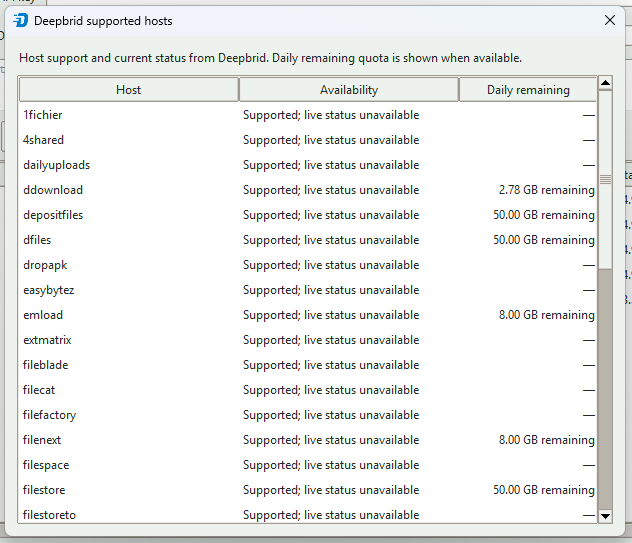
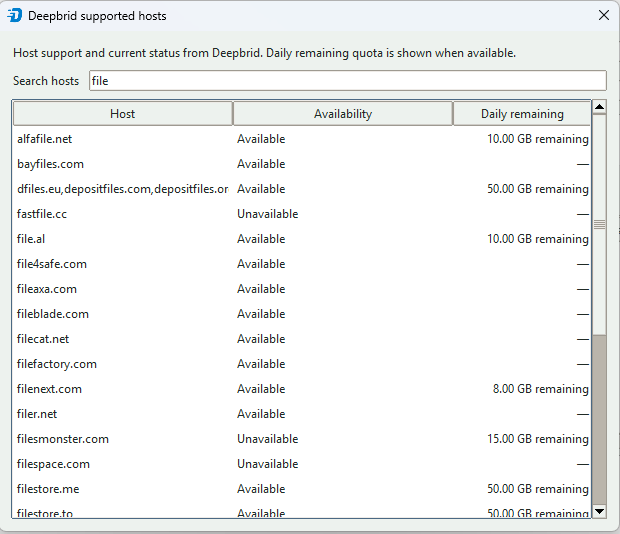
Fix warnings, Filter and sort hosts

Changed region(s): [[0.0, 0.0, 1.0, 1.0]]

diff --git a/src/app.py b/src/app.py
@@ -47,6 +47,18 @@ LINK_PLACEHOLDER = "Paste supported file-host links or HTML containing links her
 API_KEY_DASHBOARD_URL = "https://www.deepbrid.com/devices"
 
 
+def _filter_and_sort_host_rows(
+    rows: list[tuple[str, str, str]],
+    query: str,
+    column: str,
+    reverse: bool,
+) -> list[tuple[str, str, str]]:
+    column_index = {"host": 0, "availability": 1, "limit": 2}[column]
+    normalized_query = query.casefold()
+    matching_rows = (row for row in rows if normalized_query in row[0].casefold())
+    return sorted(matching_rows, key=lambda row: row[column_index].casefold(), reverse=reverse)
+
+
 def default_download_directory() -> Path:
     downloads = Path(user_downloads_dir()).expanduser()
     return downloads if downloads.is_dir() else OUTPUT_DIR
@@ -570,6 +582,12 @@ class DownloaderApp:
             ttk.Label(frame, text=f"Daily limits unavailable: {limits_error}", wraplength=580).pack(
                 anchor="w", pady=(0, 8)
             )
+        search_row = ttk.Frame(frame)
+        search_row.pack(fill="x", pady=(0, 8))
+        ttk.Label(search_row, text="Search hosts").pack(side="left", padx=(0, 8))
+        search_var = tk.StringVar(master=popup)
+        search_entry = ttk.Entry(search_row, textvariable=search_var)
+        search_entry.pack(side="left", fill="x", expand=True)
         table_frame = ttk.Frame(frame)
         table_frame.pack(fill="both", expand=True)
         table_frame.rowconfigure(0, weight=1)
@@ -579,9 +597,33 @@ class DownloaderApp:
             columns=("host", "availability", "limit"),
             show="headings",
         )
-        table.heading("host", text="Host")
-        table.heading("availability", text="Availability")
-        table.heading("limit", text="Daily remaining")
+        sort_state = {"column": "host", "reverse": False}
+
+        def render_rows() -> None:
+            rows = _filter_and_sort_host_rows(
+                host_rows,
+                search_var.get(),
+                sort_state["column"],
+                sort_state["reverse"],
+            )
+            table.delete(*table.get_children())
+            for row in rows:
+                table.insert("", "end", values=row)
+
+        def sort_by(column: str) -> None:
+            if sort_state["column"] == column:
+                sort_state["reverse"] = not sort_state["reverse"]
+            else:
+                sort_state["column"] = column
+                sort_state["reverse"] = False
+            render_rows()
+
+        for column, label in (
+            ("host", "Host"),
+            ("availability", "Availability"),
+            ("limit", "Daily remaining"),
+        ):
+            table.heading(column, text=label, command=lambda key=column: sort_by(key))
         table.column("host", width=220, anchor="w")
         table.column("availability", width=220, anchor="w")
         table.column("limit", width=140, anchor="e")
@@ -590,7 +632,8 @@ class DownloaderApp:
         scrollbar.grid(row=0, column=1, sticky="ns")
         table.configure(yscrollcommand=scrollbar.set)
 
-        for domain, status in sorted(hosts.items(), key=lambda entry: entry[0].casefold()):
+        host_rows = []
+        for domain, status in hosts.items():
             normalized_status = status.strip().split("(", 1)[0].strip().lower()
             if normalized_status == "down":
                 availability = "Unavailable"
@@ -607,7 +650,9 @@ class DownloaderApp:
                     (value for key, value in limits.items() if key.lower().split(".", 1)[0] == host_slug),
                     "—",
                 )
-            table.insert("", "end", values=(domain, availability, limit))
+            host_rows.append((domain, availability, limit))
+        search_var.trace_add("write", lambda *_args: render_rows())
+        render_rows()
         return popup
 
     def _apply_host_statuses(self, hosts: dict[str, str]) -> None:
@@ -701,14 +746,19 @@ class DownloaderApp:
         canvas.configure(yscrollcommand=yscrollbar.set, xscrollcommand=xscrollbar.set)
 
         def _on_mouse_wheel(event: tk.Event) -> None:
+            if not canvas.winfo_exists():
+                return
             if hasattr(event, "delta"):
                 delta = int(-event.delta / 12)
             else:
                 delta = 0
-            canvas.yview_scroll(delta, "units")
+            try:
+                canvas.yview_scroll(delta, "units")
+            except tk.TclError:
+                return
 
-        canvas.bind_all("<MouseWheel>", _on_mouse_wheel)
-        canvas.bind_all("<Shift-MouseWheel>", _on_mouse_wheel)
+        popup.bind("<MouseWheel>", _on_mouse_wheel, add="+")
+        popup.bind("<Shift-MouseWheel>", _on_mouse_wheel, add="+")
         frame = ttk.Frame(canvas)
         canvas.create_window((0, 0), window=frame, anchor="nw")
 

diff --git a/tests/test_downloader.py b/tests/test_downloader.py
@@ -18,6 +18,7 @@ from src.app import (
     OUTPUT_DIR,
     _ConsoleStream,
     default_download_directory,
+    _filter_and_sort_host_rows,
     format_bytes,
     format_duration,
     migrate_legacy_database,
@@ -250,6 +251,26 @@ class QueueStoreTests(unittest.TestCase):
 
 
 class ValidationAndPresentationTests(unittest.TestCase):
+    def test_host_rows_filter_and_sort_by_each_column(self) -> None:
+        rows = [
+            ("zeta.example", "Unavailable", "9 GB remaining"),
+            ("alpha.example", "Available", "20 GB remaining"),
+            ("beta.example", "Available", "5 GB remaining"),
+        ]
+
+        self.assertEqual(
+            _filter_and_sort_host_rows(rows, "TA", "host", False),
+            [rows[2], rows[0]],
+        )
+        self.assertEqual(
+            _filter_and_sort_host_rows(rows, "", "availability", False),
+            [rows[1], rows[2], rows[0]],
+        )
+        self.assertEqual(
+            _filter_and_sort_host_rows(rows, "", "limit", True),
+            [rows[0], rows[2], rows[1]],
+        )
+
     def test_plain_click_replaces_existing_selection(self) -> None:
         app = DownloaderApp.__new__(DownloaderApp)
         app.table = FakeSelectionTable(["1", "2", "3"])
